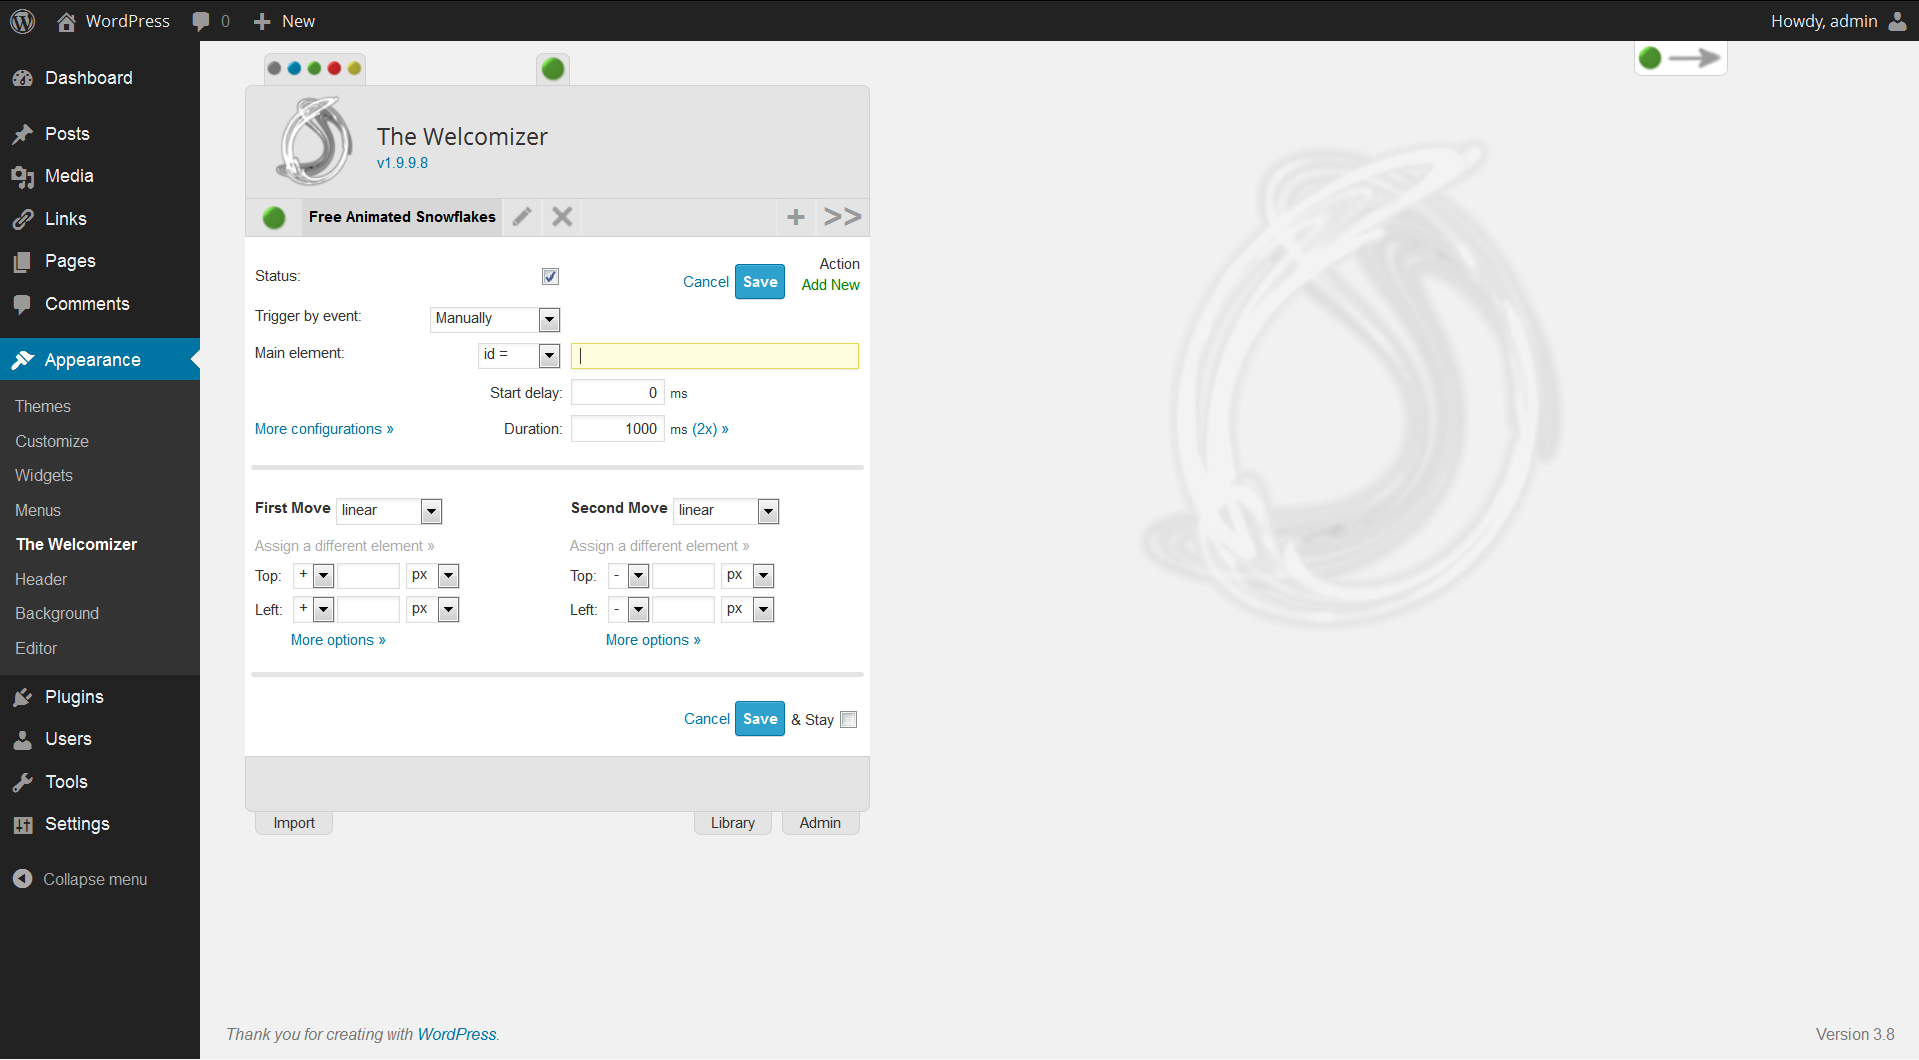
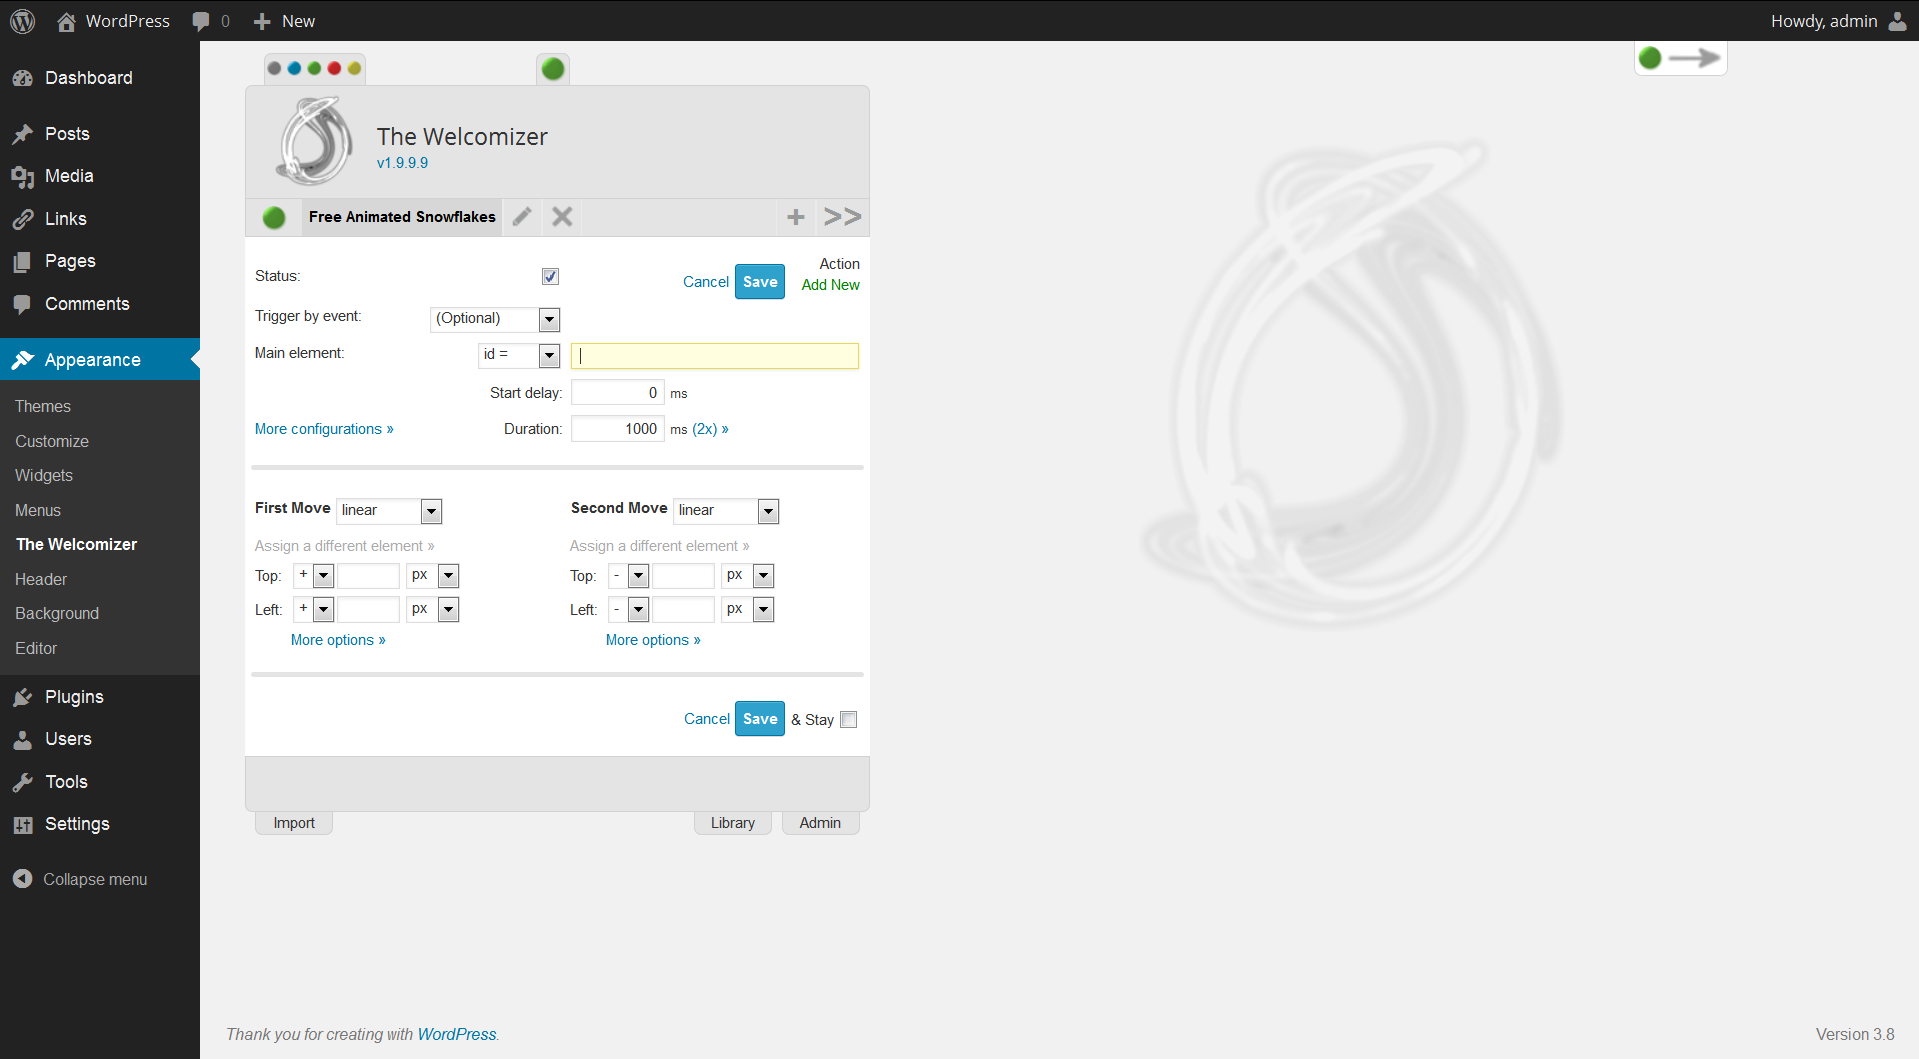
v1.9.9.9
git-svn-id: https://plugins.svn.wordpress.org/the-welcomizer/trunk@828712 b8457f37-d9ea-0310-8a92-e5e31aec5664

diff --git a/skins/blue/twiz-style.css b/skins/blue/twiz-style.css
@@ -191,7 +191,7 @@ div a, td a {
 }
 .twiz-right-panel {
     margin: 19px 0 0 15px;
-    color: #000000;
+    color: #333333;
     background-color: #ffffff;
 }
 .twiz-menu-header{

diff --git a/skins/green/twiz-style.css b/skins/green/twiz-style.css
@@ -191,7 +191,7 @@ div a, td a {
 }
 .twiz-right-panel {
     margin: 19px 0 0 15px;
-    color: #000000;
+    color: #333333;
     background-color: #ffffff;
 }
 .twiz-menu-header{

diff --git a/skins/red/twiz-style.css b/skins/red/twiz-style.css
@@ -191,7 +191,7 @@ div a, td a {
 }
 .twiz-right-panel {
     margin: 19px 0 0 15px;
-    color: #000000;
+    color: #333333;
     background-color: #ffffff;
 }
 .twiz-menu-header{

diff --git a/skins/yellow/twiz-style.css b/skins/yellow/twiz-style.css
@@ -191,7 +191,7 @@ div a, td a {
 }
 .twiz-right-panel {
     margin: 19px 0 0 15px;
-    color: #000000;
+    color: #333333;
     background-color: #ffffff;
 }
 .twiz-menu-header{

diff --git a/includes/twiz.class.php b/includes/twiz.class.php
@@ -863,8 +863,8 @@ class Twiz{
         $pluginDir = str_replace('/includes/','',$pluginDir);
 
         // Twiz variable configuration
-        $this->version    = '1.9.9.8';
-        $this->cssVersion = '2-15';
+        $this->version    = '1.9.9.9';
+        $this->cssVersion = '2-16';
         $this->dbVersion  = '3.5';
         $this->pluginUrl  = $pluginUrl;
         $this->pluginDir  = $pluginDir;

diff --git a/twiz-index.php b/twiz-index.php
@@ -1,7 +1,7 @@
 <?php
 /*
 Plugin Name: The Welcomizer
-Version: 1.9.9.8
+Version: 1.9.9.9
 Plugin URI: http://www.sebastien-laframboise.com/wordpress/plugins-wordpress/the-welcomizer
 Description: This plugin allows you to animate your blog using jQuery effects. (100% AJAX) + .js/.css Includer.
 Author: S&#233;bastien Laframboise
